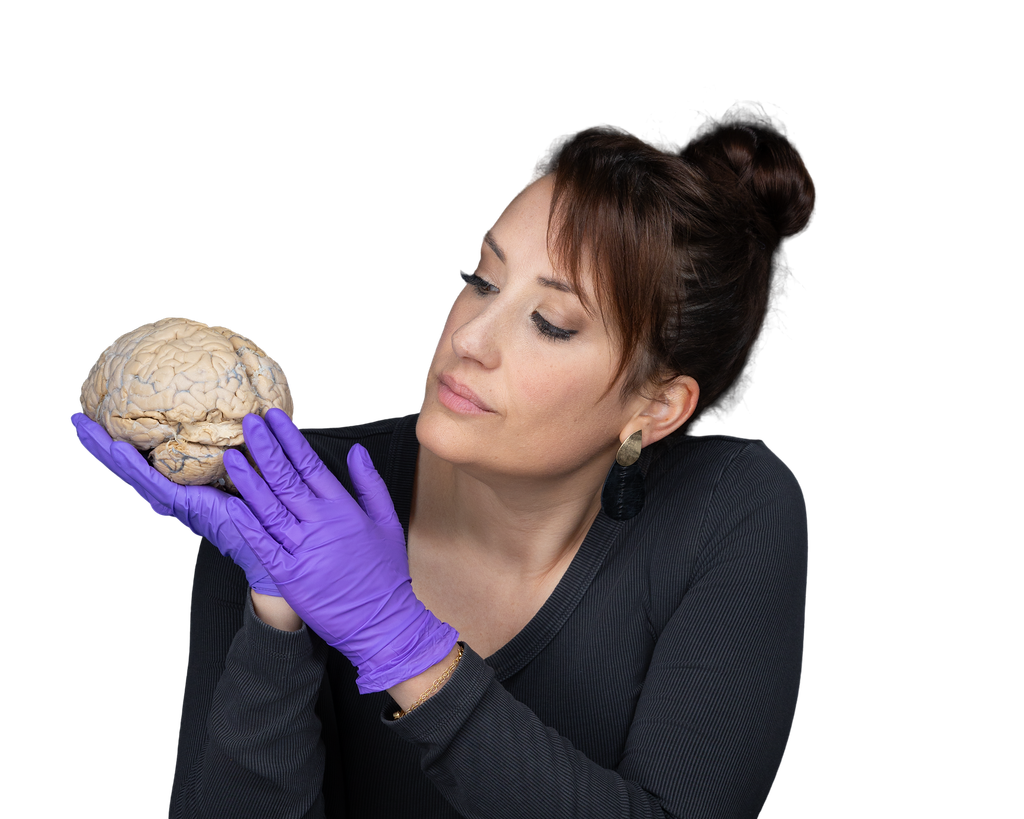
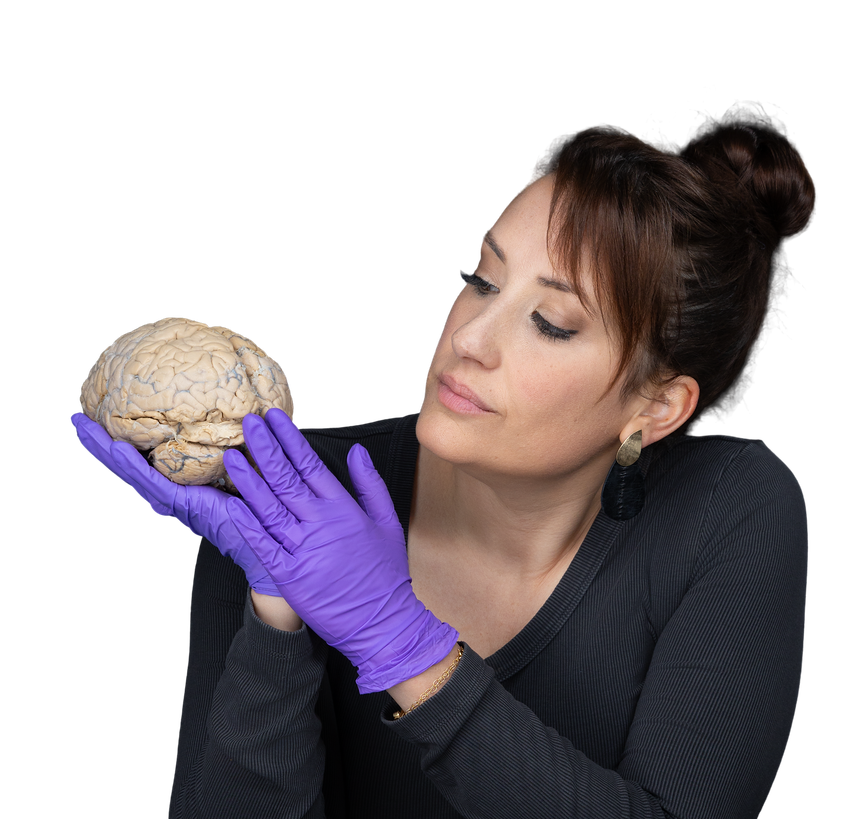
Partners: add Lead Partners premier tier; placeholders become 'Open Partnership' links
- New top tier with a single 460px slot (largest of the five tiers).
- All 16 placeholder boxes are now anchors to
  https://www.tedxchicago.com/contact reading 'Open Partnership'; the
  existing dashed-border card style and hover states carry over.

diff --git a/index.html b/index.html
@@ -84,7 +84,7 @@
   <link rel="preconnect" href="https://fonts.googleapis.com">
   <link rel="preconnect" href="https://fonts.gstatic.com" crossorigin>
   <link href="https://fonts.googleapis.com/css2?family=Handjet:wght@300;400;500;600;700&display=swap" rel="stylesheet">
-  <link rel="stylesheet" href="css/styles.css?v=46">
+  <link rel="stylesheet" href="css/styles.css?v=47">
 </head>
 <body>
   <!-- All styling is scoped to this wrapper so the embed can't restyle
@@ -373,41 +373,48 @@
 
         <div class="partner-tiers" data-reveal>
           <div class="partner-tier">
+            <h3 class="partner-tier-name">Lead Partners</h3>
+            <div class="partner-grid partner-grid--lead">
+              <a class="partner-logo" href="https://www.tedxchicago.com/contact"><span>Open Partnership</span></a>
+            </div>
+          </div>
+
+          <div class="partner-tier">
             <h3 class="partner-tier-name">Beacon Partners</h3>
             <div class="partner-grid partner-grid--beacon">
-              <div class="partner-logo"><span>Partner Logo</span></div>
-              <div class="partner-logo"><span>Partner Logo</span></div>
+              <a class="partner-logo" href="https://www.tedxchicago.com/contact"><span>Open Partnership</span></a>
+              <a class="partner-logo" href="https://www.tedxchicago.com/contact"><span>Open Partnership</span></a>
             </div>
           </div>
 
           <div class="partner-tier">
             <h3 class="partner-tier-name">Campfire Partners</h3>
             <div class="partner-grid partner-grid--campfire">
-              <div class="partner-logo"><span>Partner Logo</span></div>
-              <div class="partner-logo"><span>Partner Logo</span></div>
-              <div class="partner-logo"><span>Partner Logo</span></div>
+              <a class="partner-logo" href="https://www.tedxchicago.com/contact"><span>Open Partnership</span></a>
+              <a class="partner-logo" href="https://www.tedxchicago.com/contact"><span>Open Partnership</span></a>
+              <a class="partner-logo" href="https://www.tedxchicago.com/contact"><span>Open Partnership</span></a>
             </div>
           </div>
 
           <div class="partner-tier">
             <h3 class="partner-tier-name">Torchlight Partners</h3>
             <div class="partner-grid partner-grid--torchlight">
-              <div class="partner-logo"><span>Partner Logo</span></div>
-              <div class="partner-logo"><span>Partner Logo</span></div>
-              <div class="partner-logo"><span>Partner Logo</span></div>
-              <div class="partner-logo"><span>Partner Logo</span></div>
+              <a class="partner-logo" href="https://www.tedxchicago.com/contact"><span>Open Partnership</span></a>
+              <a class="partner-logo" href="https://www.tedxchicago.com/contact"><span>Open Partnership</span></a>
+              <a class="partner-logo" href="https://www.tedxchicago.com/contact"><span>Open Partnership</span></a>
+              <a class="partner-logo" href="https://www.tedxchicago.com/contact"><span>Open Partnership</span></a>
             </div>
           </div>
 
           <div class="partner-tier">
             <h3 class="partner-tier-name">Flame Partners</h3>
             <div class="partner-grid partner-grid--flame">
-              <div class="partner-logo"><span>Partner Logo</span></div>
-              <div class="partner-logo"><span>Partner Logo</span></div>
-              <div class="partner-logo"><span>Partner Logo</span></div>
-              <div class="partner-logo"><span>Partner Logo</span></div>
-              <div class="partner-logo"><span>Partner Logo</span></div>
-              <div class="partner-logo"><span>Partner Logo</span></div>
+              <a class="partner-logo" href="https://www.tedxchicago.com/contact"><span>Open Partnership</span></a>
+              <a class="partner-logo" href="https://www.tedxchicago.com/contact"><span>Open Partnership</span></a>
+              <a class="partner-logo" href="https://www.tedxchicago.com/contact"><span>Open Partnership</span></a>
+              <a class="partner-logo" href="https://www.tedxchicago.com/contact"><span>Open Partnership</span></a>
+              <a class="partner-logo" href="https://www.tedxchicago.com/contact"><span>Open Partnership</span></a>
+              <a class="partner-logo" href="https://www.tedxchicago.com/contact"><span>Open Partnership</span></a>
             </div>
           </div>
         </div>

diff --git a/squarespace/page-code-block.html b/squarespace/page-code-block.html
@@ -248,41 +248,48 @@
 
         <div class="partner-tiers" data-reveal>
           <div class="partner-tier">
+            <h3 class="partner-tier-name">Lead Partners</h3>
+            <div class="partner-grid partner-grid--lead">
+              <a class="partner-logo" href="https://www.tedxchicago.com/contact"><span>Open Partnership</span></a>
+            </div>
+          </div>
+
+          <div class="partner-tier">
             <h3 class="partner-tier-name">Beacon Partners</h3>
             <div class="partner-grid partner-grid--beacon">
-              <div class="partner-logo"><span>Partner Logo</span></div>
-              <div class="partner-logo"><span>Partner Logo</span></div>
+              <a class="partner-logo" href="https://www.tedxchicago.com/contact"><span>Open Partnership</span></a>
+              <a class="partner-logo" href="https://www.tedxchicago.com/contact"><span>Open Partnership</span></a>
             </div>
           </div>
 
           <div class="partner-tier">
             <h3 class="partner-tier-name">Campfire Partners</h3>
             <div class="partner-grid partner-grid--campfire">
-              <div class="partner-logo"><span>Partner Logo</span></div>
-              <div class="partner-logo"><span>Partner Logo</span></div>
-              <div class="partner-logo"><span>Partner Logo</span></div>
+              <a class="partner-logo" href="https://www.tedxchicago.com/contact"><span>Open Partnership</span></a>
+              <a class="partner-logo" href="https://www.tedxchicago.com/contact"><span>Open Partnership</span></a>
+              <a class="partner-logo" href="https://www.tedxchicago.com/contact"><span>Open Partnership</span></a>
             </div>
           </div>
 
           <div class="partner-tier">
             <h3 class="partner-tier-name">Torchlight Partners</h3>
             <div class="partner-grid partner-grid--torchlight">
-              <div class="partner-logo"><span>Partner Logo</span></div>
-              <div class="partner-logo"><span>Partner Logo</span></div>
-              <div class="partner-logo"><span>Partner Logo</span></div>
-              <div class="partner-logo"><span>Partner Logo</span></div>
+              <a class="partner-logo" href="https://www.tedxchicago.com/contact"><span>Open Partnership</span></a>
+              <a class="partner-logo" href="https://www.tedxchicago.com/contact"><span>Open Partnership</span></a>
+              <a class="partner-logo" href="https://www.tedxchicago.com/contact"><span>Open Partnership</span></a>
+              <a class="partner-logo" href="https://www.tedxchicago.com/contact"><span>Open Partnership</span></a>
             </div>
           </div>
 
           <div class="partner-tier">
             <h3 class="partner-tier-name">Flame Partners</h3>
             <div class="partner-grid partner-grid--flame">
-              <div class="partner-logo"><span>Partner Logo</span></div>
-              <div class="partner-logo"><span>Partner Logo</span></div>
-              <div class="partner-logo"><span>Partner Logo</span></div>
-              <div class="partner-logo"><span>Partner Logo</span></div>
-              <div class="partner-logo"><span>Partner Logo</span></div>
-              <div class="partner-logo"><span>Partner Logo</span></div>
+              <a class="partner-logo" href="https://www.tedxchicago.com/contact"><span>Open Partnership</span></a>
+              <a class="partner-logo" href="https://www.tedxchicago.com/contact"><span>Open Partnership</span></a>
+              <a class="partner-logo" href="https://www.tedxchicago.com/contact"><span>Open Partnership</span></a>
+              <a class="partner-logo" href="https://www.tedxchicago.com/contact"><span>Open Partnership</span></a>
+              <a class="partner-logo" href="https://www.tedxchicago.com/contact"><span>Open Partnership</span></a>
+              <a class="partner-logo" href="https://www.tedxchicago.com/contact"><span>Open Partnership</span></a>
             </div>
           </div>
         </div>

diff --git a/css/styles.css b/css/styles.css
@@ -1302,6 +1302,7 @@ body { margin: 0; }
   margin-inline: auto;
   width: 100%;
 }
+.partner-grid--lead       { grid-template-columns: 1fr; max-width: 460px; }
 .partner-grid--beacon     { grid-template-columns: repeat(2, 1fr); max-width: 680px; }
 .partner-grid--campfire   { grid-template-columns: repeat(3, 1fr); max-width: 860px; }
 .partner-grid--torchlight { grid-template-columns: repeat(4, 1fr); max-width: 1000px; }